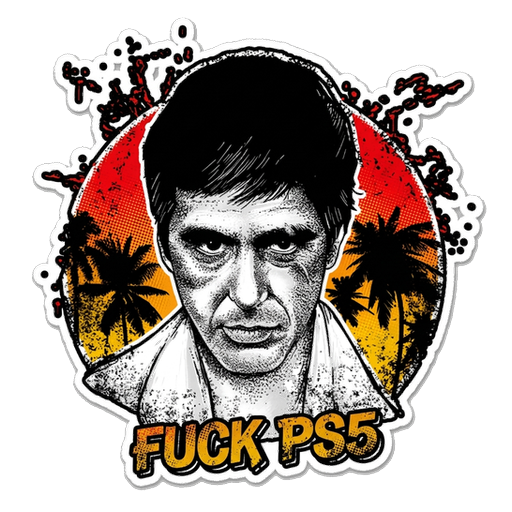
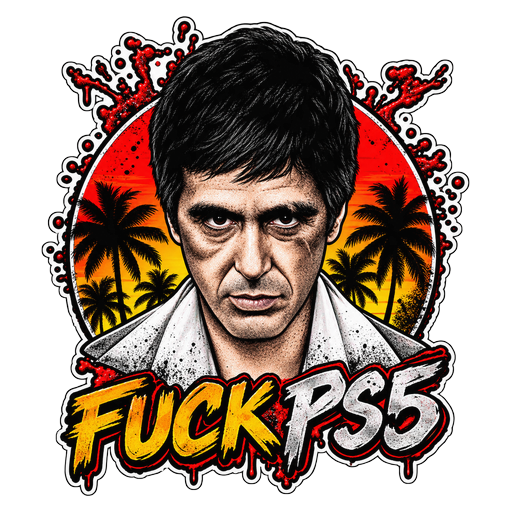
feat(ui): refresh the startup notice and the store art
The startup notice now speaks the player's language (en/es/pl) through the
i18n catalogs instead of hardcoded Spanish, and points at X and the Telegram
channel. The donation QR stays exactly where it was.

The sticker art moves to the color version: icon0 and ascii-dial are rebuilt
from the new source at 512x512 (what verify.py requires), pic0 and pic1 get
the old sticker replaced in place so the console text and the radial glow are
untouched. brand/newlogo.png keeps the source in the repo so the four derived
PNGs can be regenerated.

diff --git a/app/ui/StartupNotice.jsx b/app/ui/StartupNotice.jsx
@@ -2,22 +2,27 @@
 // The full-screen notice that stands between launch and the store: Padrino's message to the
 // community, on the flat canvas the old welcome gate used. The Gate in index.jsx mounts it
 // instead of the app, so nothing behind it can take focus; CONTINUAR is the only way in.
+// The copy lives in the i18n catalogs (notice.*), so the same screen greets the player in
+// their own language; the URLs stay plain text because the D-pad has no pointer to click them.
 
 import '../assets/Inter-Regular.ttf';
 import '../assets/JetBrainsMono-Regular.ttf';
 import donacion from '../assets/donacion.png';
 import { jsx, jsxs } from 'react/jsx-runtime';
+import { useT } from '../i18n/index.js';
 import { Button2 } from './Button.jsx';
 import { FocusScope, Image, Text, View } from '@ps5-react/core';
 
   // One paragraph per node, every one uniform: the engine takes that path whole (255 bytes),
-  // while a nested span would split it into 63-byte pieces. The longest paragraph here is 241.
+  // while a nested span would split it into 63-byte pieces. The longest notice string is 107.
   var P = { fontFamily: "Inter-Regular", fontSize: 22, lineHeight: 34, color: "#eeeeee", textAlign: "center", width: 1400 };
+  var TITLE = { fontFamily: "JetBrainsMono-Regular", fontSize: 30, lineHeight: 44, color: "#fab283", textAlign: "center", writingDirection: "ltr" };
   var LINK = { fontFamily: "JetBrainsMono-Regular", fontSize: 24, lineHeight: 34, color: "#fab283", textAlign: "center", writingDirection: "ltr" };
   // The QR image carries its own title, network and wallet address, so the notice only quotes
   // the link and lets the picture hold the rest. Its box matches the art's aspect ratio.
   var QR = { width: 400, height: 374 };
   function StartupNotice({ onDone }) {
+    const t2 = useT();
     return /* @__PURE__ */ (0, jsx)(
       FocusScope,
       {
@@ -25,16 +30,19 @@ import { FocusScope, Image, Text, View } from '@ps5-react/core';
         autoFocus: true,
         onBack: () => true,
         onAction: () => true,
-        children: /* @__PURE__ */ (0, jsxs)(View, { style: { position: "absolute", top: 0, right: 0, bottom: 0, left: 0, zIndex: 60, backgroundColor: "#121110", direction: "ltr", alignItems: "center", justifyContent: "center", paddingVertical: 40 }, children: [
-          /* @__PURE__ */ (0, jsxs)(View, { style: { width: 1400, alignItems: "center", gap: 20 }, children: [
-            /* @__PURE__ */ (0, jsx)(Text, { style: P, children: "Hola, soy Padrino, creador de PADRINO STORE y de varios otros proyectos de código abierto." }),
-            /* @__PURE__ */ (0, jsx)(Text, { style: P, children: "Escribo este mensaje para aclarar de forma definitiva que ni PADRINO STORE ni ninguno de los repositorios publicados en mi perfil oficial de GitHub contienen virus, ransomware, stealers, keyloggers ni ningún otro tipo de software malicioso." }),
-            /* @__PURE__ */ (0, jsx)(Text, { style: P, children: "Esta aclaración surge a raíz de una difamación reciente iniciada por dos personas, quienes ya se retractaron y ofrecieron disculpas públicas; aun así, prefiero dejar el tema claro para tranquilidad de toda la comunidad." }),
-            /* @__PURE__ */ (0, jsx)(Text, { style: P, children: "Gracias a todos por la confianza y por utilizar PADRINO STORE. Para mantenerte al tanto de novedades, actualizaciones y soporte, únete a nuestro canal oficial de Telegram:" }),
-            /* @__PURE__ */ (0, jsx)(Text, { style: LINK, children: "→ t.me/padrinostores" }),
-            /* @__PURE__ */ (0, jsx)(Text, { style: P, children: "Si valoras mi trabajo y deseas apoyar el desarrollo continuo de nuevos proyectos, te dejo abajo mi código QR y mi dirección de Wallet USDT. ¡Cualquier aporte suma y ayuda a que esto siga creciendo!" }),
+        children: /* @__PURE__ */ (0, jsxs)(View, { style: { position: "absolute", top: 0, right: 0, bottom: 0, left: 0, zIndex: 60, backgroundColor: "#121110", direction: "ltr", alignItems: "center", justifyContent: "center", paddingVertical: 32 }, children: [
+          /* @__PURE__ */ (0, jsxs)(View, { style: { width: 1400, alignItems: "center", gap: 16 }, children: [
+            /* @__PURE__ */ (0, jsx)(Text, { style: TITLE, children: t2("notice.title") }),
+            /* @__PURE__ */ (0, jsx)(Text, { style: P, children: t2("notice.hi") }),
+            /* @__PURE__ */ (0, jsx)(Text, { style: P, children: t2("notice.thanks") }),
+            /* @__PURE__ */ (0, jsx)(Text, { style: P, children: t2("notice.follow") }),
+            /* @__PURE__ */ (0, jsx)(Text, { style: P, children: t2("notice.x.desc") }),
+            /* @__PURE__ */ (0, jsx)(Text, { style: LINK, children: t2("notice.x.link") }),
+            /* @__PURE__ */ (0, jsx)(Text, { style: P, children: t2("notice.tg.desc") }),
+            /* @__PURE__ */ (0, jsx)(Text, { style: LINK, children: t2("notice.tg.link") }),
+            /* @__PURE__ */ (0, jsx)(Text, { style: P, children: t2("notice.closing") }),
             /* @__PURE__ */ (0, jsx)(Image, { source: donacion, resizeMode: "contain", style: QR }),
-            /* @__PURE__ */ (0, jsx)(Button2, { variant: "primary", size: "lg", label: "CONTINUAR", autoFocus: true, onPress: onDone })
+            /* @__PURE__ */ (0, jsx)(Button2, { variant: "primary", size: "lg", label: t2("notice.continue"), autoFocus: true, onPress: onDone })
           ] })
         ] })
       }

diff --git a/CHANGELOG.md b/CHANGELOG.md
@@ -10,9 +10,7 @@ El diálogo de actualización en la app lo parsea y muestra como lista.
 
 ## Próxima release
 
-- Prioridad: el enlace con formato EXFAT es el recomendado y sale primero en la lista de fuentes.
-- Rendimiento: abrir la página de un juego es más ágil: los juegos relacionados se calculan una sola vez, la portada se precarga más tarde y un feed de fuentes sin cambios no se relee.
-- Descargas: iniciar una descarga ya no espera detrás de las consultas de fondo del catálogo; ceden el turno y se reprograman.
+- FIXED LINKS AND OTHER PROBLEMS
 
 ## Archivo
 
